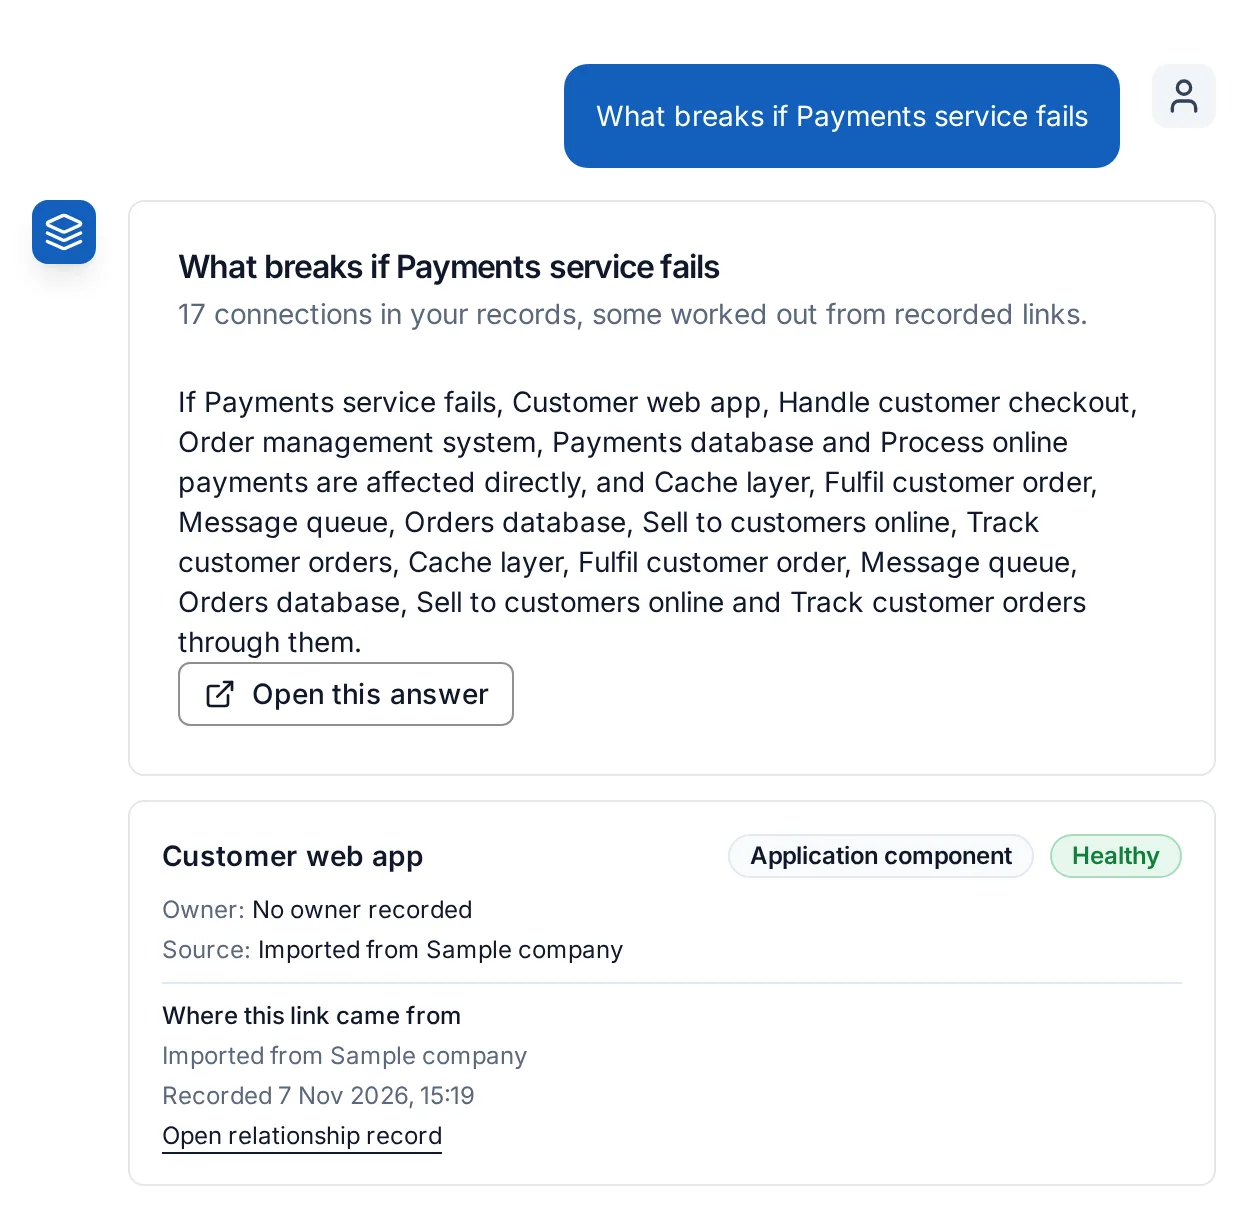
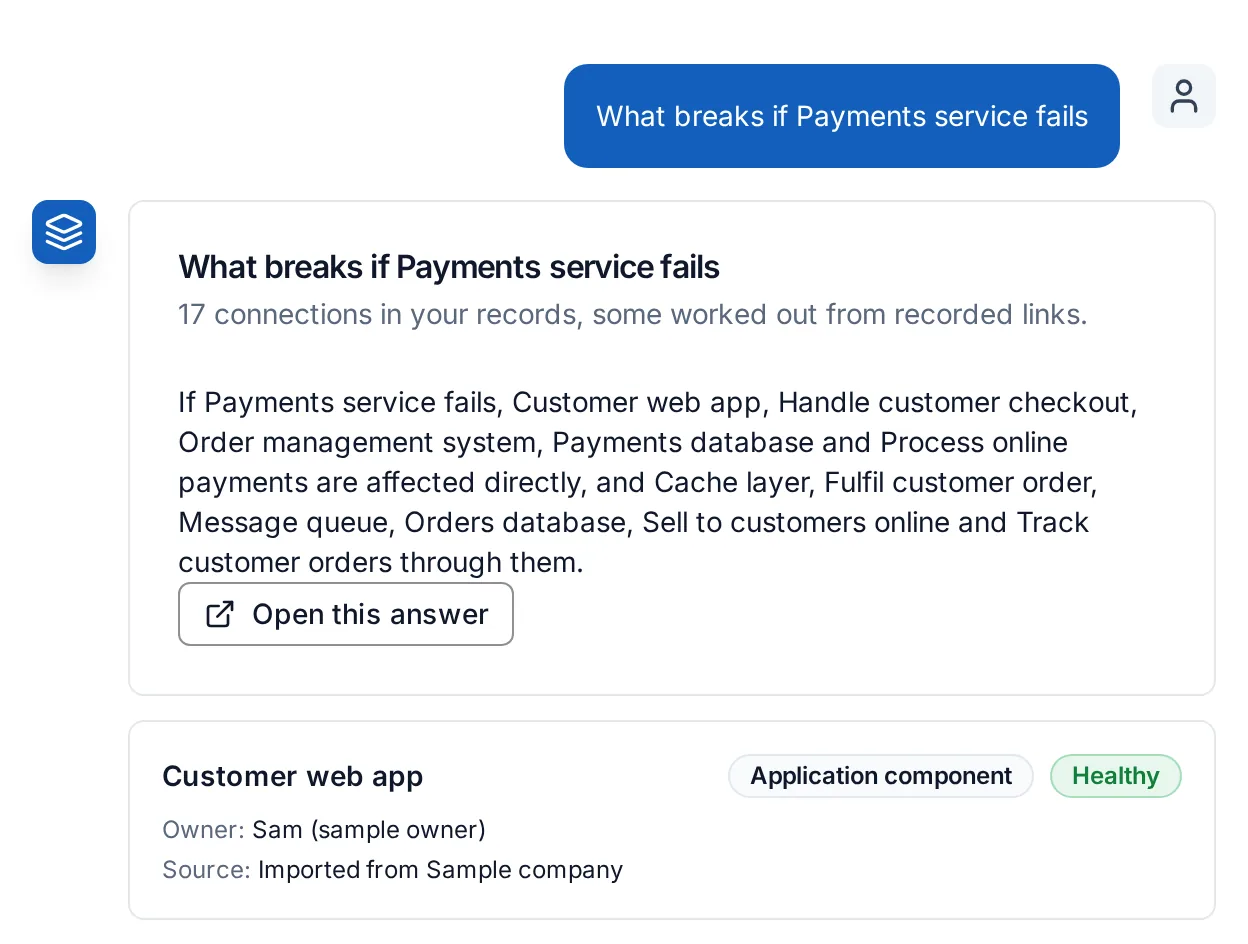
The home page answer image shows a cited answer with no warning, no date and the sample's owner, and a phone sees all of it in the first screen
The pictures are retaken with an AI model configured, from an answer that names each system once and the owner
the sample records. The capture refuses a chat showing the no-model notice, a date, a repeated name or a first
card with no owner. The phone picture is the answer heading and the first connection, so its whole height is
inside a 375 by 812 screen again; the fold journey asserts that, and now really runs in the dark theme.
The first-screen journey also follows the answer's own link to a page that carries the answer.

Evidence: pytest tests/smoke/test_home_proof_inside_fold_journey.py -> 4 passed, 7 warnings in 69.02s (against the previous page: 2 failed, 2 passed)

diff --git a/app/templates/main/index.html b/app/templates/main/index.html
@@ -62,10 +62,10 @@
         {# A real answer from the sample company in the AI chat, captured by scripts/capture_proof_assets.py --home-chat. #}
         <picture>
           <source media="(max-width: 739px)" srcset="{{ url_for('static', filename='img/home/chat-answer-mobile.webp') }}"
-                  width="374" height="809">
+                  width="374" height="284">
           <img src="{{ url_for('static', filename='img/home/chat-answer.webp') }}"
-               alt="The AI chat answering what breaks if the Payments service fails: the sentence naming what is affected, then the first connection with its owner, or that none is recorded, and the source the link was read from."
-               width="624" height="605" decoding="async" fetchpriority="high" class="home-frame__img" data-testid="home-hero-proof">
+               alt="The AI chat answering what breaks if the Payments service fails: how many connections are recorded, then the first one, Customer web app, with its owner, Sam, and the source it was imported from."
+               width="624" height="472" decoding="async" fetchpriority="high" class="home-frame__img" data-testid="home-hero-proof">
         </picture>
       </div>
       <figcaption class="public-card-body mt-3 text-center">

diff --git a/scripts/capture_proof_assets.py b/scripts/capture_proof_assets.py
@@ -207,9 +207,30 @@ def capture_home_chat(browser, base, password, wide: bool) -> tuple[int, int]:
             raise SystemExit("the chat gave no cited answer: run seed-demo-company first")
         page.wait_for_timeout(1000)
         _tidy(page)
+        # The picture must show the chat as it is with an AI model configured: the server this runs
+        # against needs a provider key in its environment, or the chat shows its no-model notice.
+        if page.get_by_test_id("model-unavailable-notice").count():
+            raise SystemExit("the chat shows its no-AI-model notice: start the server with a provider key in its environment")
+        # The line saying why a connection is there carries the date it was recorded; the picture
+        # shows the owner and the source, so that line is folded away for the shot.
+        page.evaluate("document.querySelectorAll('[data-testid=\"estate-answer\"] [data-why]').forEach((e) => { e.style.display = 'none'; })")
         rows = page.locator('[data-testid="estate-answer"] [data-answer-row]')
         if rows.count() < cards_shown:
             raise SystemExit("the chat answer has too few cards to photograph: run seed-demo-company first")
+        # only the answer card and the connection cards inside the crop are photographed
+        shown_cards = [page.locator('[data-testid="estate-answer"] [data-slot="card"]').first.inner_text()]
+        shown_cards += [rows.nth(i).locator("xpath=ancestor::*[@data-slot='card'][1]").inner_text() for i in range(cards_shown)]
+        answer_text = "\n".join(shown_cards)
+        dated = re.search(r"[^\n]*(?:\b\d{1,2} [A-Z][a-z]{2} \d{4}\b|\b\d{1,2}:\d{2}\b)[^\n]*", answer_text)
+        if dated:
+            raise SystemExit("the chat answer shows a date or time (%s): the home page shows none" % dated.group(0).strip())
+        sentence = page.get_by_test_id("answer-sentence").inner_text()
+        listed = re.split(r", | and ", sentence.split("affected directly", 1)[-1].replace("through them", "").replace("through it", ""))
+        names = [n.strip(" .,") for n in listed if n.strip(" .,")]
+        if len(names) != len(set(names)):
+            raise SystemExit("the answer sentence names a system twice: %s" % sentence)
+        if "No owner recorded" in shown_cards[1]:
+            raise SystemExit("the first card says no owner is recorded: the sample records one for this application")
         for i in range(cards_shown):
             source = rows.nth(i).locator("xpath=ancestor::*[@data-slot='card'][1]").locator("[data-citation]").inner_text()
             if not source.strip() or "not recorded" in source:
@@ -217,8 +238,20 @@ def capture_home_chat(browser, base, password, wide: bool) -> tuple[int, int]:
         page.evaluate("document.getElementById('messages-container').scrollTop = 0")
         page.wait_for_timeout(300)
         pane = _box(page, "#messages-container")
+        top = pane["y"]
+        if not wide:
+            # A phone shows the answer's heading and count and the first connection with its owner and
+            # source, and fits the first screen under the headline: the question bubble, the long sentence
+            # and the button are left out of the crop (the sentence is checked above and shown on a laptop).
+            page.evaluate(
+                "document.querySelectorAll('[data-testid=\"estate-answer\"] [data-slot=\"card-content\"],"
+                " [data-testid=\"estate-answer\"] [data-slot=\"card-footer\"]').forEach((e) => {"
+                " if (e.closest('[data-answer-cards]') && !e.querySelector('[data-answer-row]') && !e.closest('[data-slot=\"card\"]').querySelector('[data-answer-row]')) { e.style.display = 'none'; } })"
+            )
+            page.wait_for_timeout(300)
+            top = page.locator('[data-testid="estate-answer"] [data-slot="card"]').first.bounding_box()["y"] - 4
         last = rows.nth(cards_shown - 1).locator("xpath=ancestor::*[@data-slot='card'][1]").bounding_box()
-        clip = {"x": pane["x"], "y": pane["y"], "width": pane["width"], "height": last["y"] + last["height"] + 12 - pane["y"]}
+        clip = {"x": pane["x"], "y": top, "width": pane["width"], "height": last["y"] + last["height"] + 12 - top}
         if clip["height"] <= 0 or clip["y"] + clip["height"] > vh:
             raise SystemExit("the chat crop does not fit the viewport: %s" % clip)
         name = "chat-answer.webp" if wide else "chat-answer-mobile.webp"

diff --git a/tests/smoke/test_home_proof_inside_fold_journey.py b/tests/smoke/test_home_proof_inside_fold_journey.py
@@ -2,8 +2,8 @@
 
 The visitor is signed out. The proof under the headline is the answer card (the sentence, what
 depends on the system, who owns each). On a laptop screen (1440 by 900) the whole image, down to the
-source it cites, ends above the bottom edge of the screen; on a phone (375 by 812) the headline, both
-buttons and the first 250 pixels of the answer are inside the screen and the rest is one scroll away.
+source it cites, ends above the bottom edge of the screen; the same on a phone (375 by 812), where the headline,
+both buttons and the whole image are inside the screen.
 Both in the light and the dark theme, with no empty band between the navigation bar and the headline.
 """
 import pytest
@@ -16,7 +16,6 @@ SCREENS = {
     "1440": {"width": 1440, "height": 900},
     "375": {"width": 375, "height": 812},
 }
-MIN_VISIBLE_ON_PHONE = 250  # pixels of the answer image a phone shows before the first scroll
 MAX_BAND = 64  # pixels between the bottom of the navigation bar and the top of the headline
 
 
@@ -27,21 +26,19 @@ def test_cited_answer_is_inside_the_fold(browser, live_server, screen, theme):
     context = browser.new_context(viewport=viewport)
     context.set_default_timeout(PAGE_TIMEOUT)
     if theme == "dark":
-        context.add_init_script("document.documentElement.classList.add('dark');")
+        context.add_init_script("localStorage.setItem('theme', 'dark')")
     page = context.new_page()
     try:
         page.goto(live_server + "/", wait_until="networkidle", timeout=PAGE_TIMEOUT)
+        # the page really is in the theme the test names (the stored choice is what the page reads)
+        assert page.evaluate("document.documentElement.classList.contains('dark')") == (theme == "dark")
         proof = page.locator('[data-testid="home-hero-proof"]')
         assert proof.evaluate("e => e.complete && e.naturalWidth > 0")
         # the image is the answer card: its description names the sentence, the dependents and the owners
         alt = proof.get_attribute("alt")
         assert "what breaks if" in alt and "owner" in alt
         box = proof.evaluate("e => { const b = e.getBoundingClientRect(); return {top: b.top, bottom: b.bottom}; }")
-        if screen == "1440":
-            assert box["bottom"] <= viewport["height"], "answer card ends at %spx, below the %spx fold" % (box["bottom"], viewport["height"])
-        else:
-            visible = viewport["height"] - box["top"]
-            assert visible >= MIN_VISIBLE_ON_PHONE, "only %spx of the answer card is in the first screen" % visible
+        assert box["bottom"] <= viewport["height"], "answer card ends at %spx, below the %spx fold" % (box["bottom"], viewport["height"])
         # no empty band under the navigation bar
         nav_bottom = page.locator("header[data-site-nav]").evaluate("e => e.getBoundingClientRect().bottom")
         h1_top = page.locator('[data-testid="home-hero"] h1').evaluate("e => e.getBoundingClientRect().top")

diff --git a/tests/smoke/test_first_screen_one_message_journey.py b/tests/smoke/test_first_screen_one_message_journey.py
@@ -120,6 +120,12 @@ def test_empty_workspace_first_screen_is_one_message(browser, live_server, seede
         card = answer.locator("[data-slot='card']").filter(has=page.locator("[data-answer-row]")).first
         expect(card).to_be_visible()
         assert "Sample" in card.locator("[data-citation]").inner_text()
+        # the answer opens at its own address, on a page that carries the same answer
+        answer.get_by_test_id("answer-open").click()
+        page.wait_for_load_state("networkidle", timeout=PAGE_TIMEOUT)
+        expect(page.locator("body")).to_contain_text("Payments service")
+        expect(page.locator("body")).to_contain_text("Customer web app")
+        assert "/ai-chat" not in page.url, page.url
     finally:
         context.close()
 
